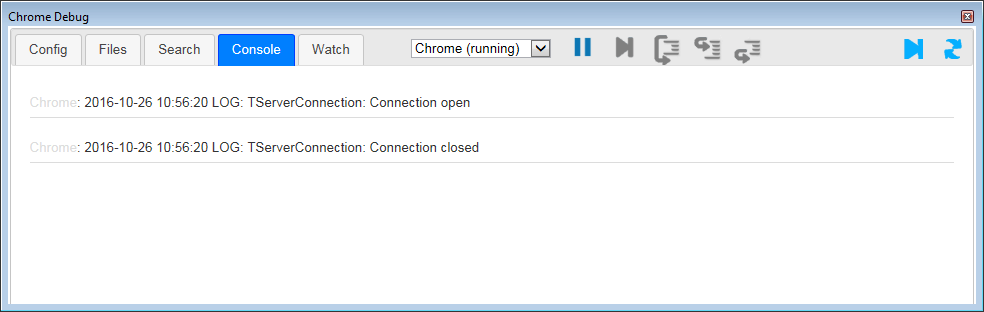
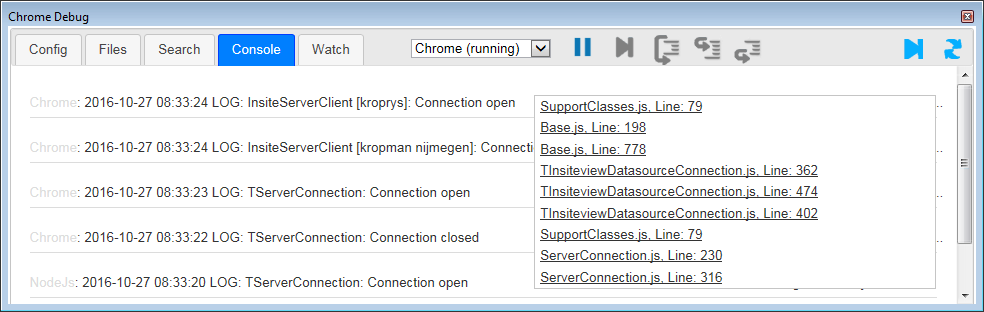
Replaced Console.messageAdded with Runtime.consoleAPICalled due to protocol changes

diff --git a/plugin/ChromeDebug/javascripts/ChromeDebug.js b/plugin/ChromeDebug/javascripts/ChromeDebug.js
@@ -411,7 +411,8 @@ function OpenWsDebug(Type, WsUrl) {
 	AppWs[Type].onopen = function (evt) {									
 		WsSend(Type, '{"method": "Debugger.enable", "id": ' + GetCallId() + ', "params": {}}');
 		WsSend(Type, '{"method": "Debugger.canSetScriptSource", "id": ' + GetCallId() + ', "params": {}}');
-		WsSend(Type, '{"method": "Console.enable", "id": ' + GetCallId() + ', "params": {}}');
+		//WsSend(Type, '{"method": "Console.enable", "id": ' + GetCallId() + ', "params": {}}');
+		WsSend(Type, '{"method": "Runtime.enable", "id": ' + GetCallId() + ', "params": {}}');
 
 		// Keep connection alive
 		setInterval(
@@ -446,10 +447,15 @@ function OpenWsDebug(Type, WsUrl) {
 					HitBreakpoint(Type, Data.params);
 
 					break;
-				case 'Console.messageAdded':
+				case 'Runtime.consoleAPICalled':
 					ConsoleMessage(Type, Data.params);
-
+				
 					break;
+					//
+				//case 'Console.messageAdded':
+				//	ConsoleMessage(Type, Data.params);
+				//
+				//	break;
 			}
 		}
 
@@ -717,6 +723,41 @@ function SelectTab(Name) {
 	$('#tabs a[href="#' + Name + '"]').click();
 }
 
+
+function ConsoleMessage(Type, Params) {
+	var CallFrames, Text;
+	
+	if (Params.args) {
+		if (Params.stackTrace && Params.stackTrace.callFrames) { 
+			CallFrames = Params.stackTrace.callFrames;
+		}
+		
+		if (Params.args[0]) {
+			switch(Params.args[0].type) {
+				case "string":
+					Text = Params.args[0].value;
+					
+					break;
+				case "object": //
+					Text = '<span style="text-decoration: underline; cursor: pointer; " onclick=\'GetProperties("' + Type + '", JSON.stringify(\"' + Params.args[0].objectId.replaceAll('"', '\\"') +  '\"), true); SelectTab("watch"); \'>' + Params.args[0].description + '</span>';
+					
+					break;	
+			}
+		} else {
+			Text = Params.args[0].value;
+		}
+		
+		//if (Params.message.level == 'error') {
+		//	Text = '<span style="color: red;">' + Text + '</span>';
+		//}
+		
+		Text = '<span style="color: gainsboro; width: 150px;">' + Type + '</span>' + ': ' + Text;
+		
+		ConsoleLog(Text, Type, CallFrames);
+	}
+}
+
+/*
 function ConsoleMessage(Type, Params) {
 	var CallFrames, Text;
 	
@@ -749,6 +790,7 @@ function ConsoleMessage(Type, Params) {
 		ConsoleLog(Text, Type, CallFrames);
 	}
 }
+*/
 
 function ConsoleLog(Message, Type  /*optional*/, CallFrames /*optional*/) {
 	var File, Parts, ScriptId, LineNr, Index, Display,

diff --git a/README.md b/README.md
@@ -9,7 +9,7 @@ Features
 
 * Placing breakpoints
 * Debugging javascripts stepping through files and watching variables 
-* Direct updating of changes in javascript files without reloading browser
+* Direct updating of changes in javascript files without reloading browser (is currently not implemented in NodeJs)
 * Search for strings in files
 * Console
 
@@ -30,8 +30,11 @@ Prerequisite
 ============
 
 * Internet Explorer 10 or higher (tested with IE11)
-* Recent version of Chrome (tested with 53.0.2785.143)
+* Recent version of Chrome (tested with 54.0.2840.71)
 * Nightly build version of Nodejs (tested with v7.0.0-nightly201609202b5acda7a2)
 
+TODO
+====
+* Make the breakpoints react to applicable changes in code.
 
 jan-willem.dubbeldam@kropman.nl
